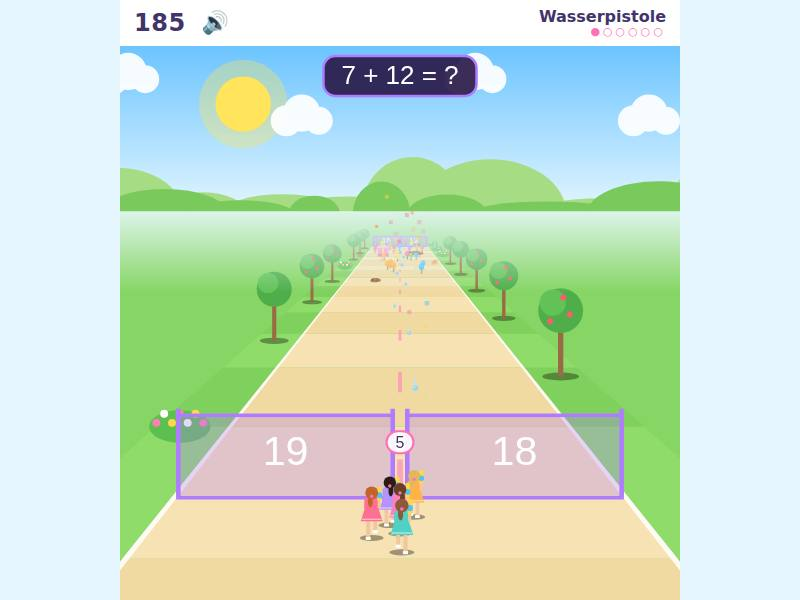
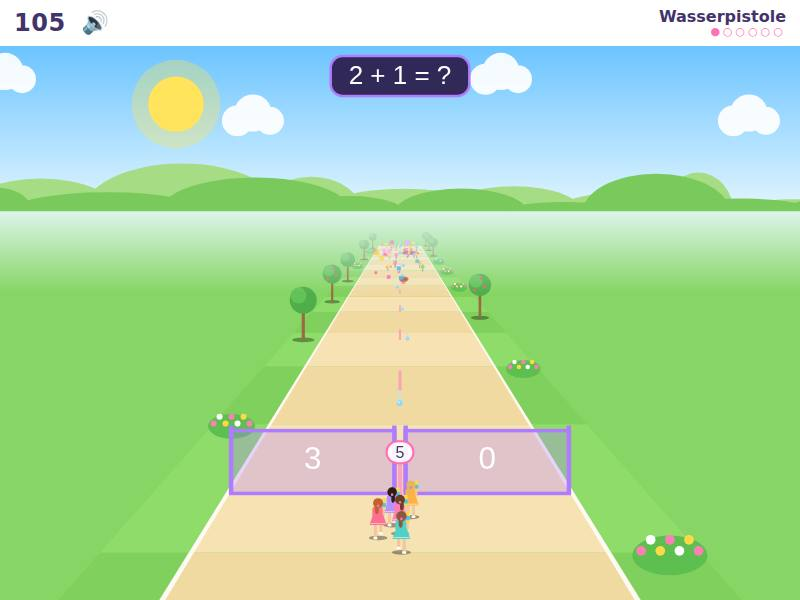
Letzte Linie: use the full width on tablets
The play area grows up to 960 px wide; the road scale is capped by the
height so figures keep their size on wide screens.

Claude-Session: https://claude.ai/code/session_01M7wP2W5AL2J2jsTdGDXtSF

diff --git a/letzte-linie/index.html b/letzte-linie/index.html
@@ -36,7 +36,7 @@
     font-family: "Barlow Condensed", "Arial Narrow", system-ui, sans-serif;
     -webkit-user-select: none; user-select: none;
   }
-  #wrap { position: relative; display: flex; flex-direction: column; height: 100%; max-width: 560px; margin: 0 auto; }
+  #wrap { position: relative; display: flex; flex-direction: column; height: 100%; max-width: 960px; margin: 0 auto; }
   #hud { display: flex; justify-content: space-between; align-items: center; padding: 8px 14px; background: var(--bar); }
   #score { font-family: "Black Ops One", Impact, sans-serif; font-size: 24px; letter-spacing: .5px; }
   #weapon { text-align: right; font-size: 16px; font-weight: 600; line-height: 1.1; }
@@ -139,7 +139,7 @@
     W = r.width; H = r.height;
     cv.width = Math.round(W * dpr); cv.height = Math.round(H * dpr);
     ctx.setTransform(dpr, 0, 0, dpr, 0, 0);
-    U = W * 0.46; HY = H * 0.3; BY = H * 0.88;
+    U = Math.min(W * 0.46, H * 0.36); HY = H * 0.3; BY = H * 0.88;
     skyG = ctx.createLinearGradient(0, 0, 0, HY);
     skyG.addColorStop(0, '#16122a'); skyG.addColorStop(0.55, '#4a1f3a'); skyG.addColorStop(1, '#d2562e');
     fogG = ctx.createLinearGradient(0, HY, 0, HY + (BY - HY) * 0.25);
